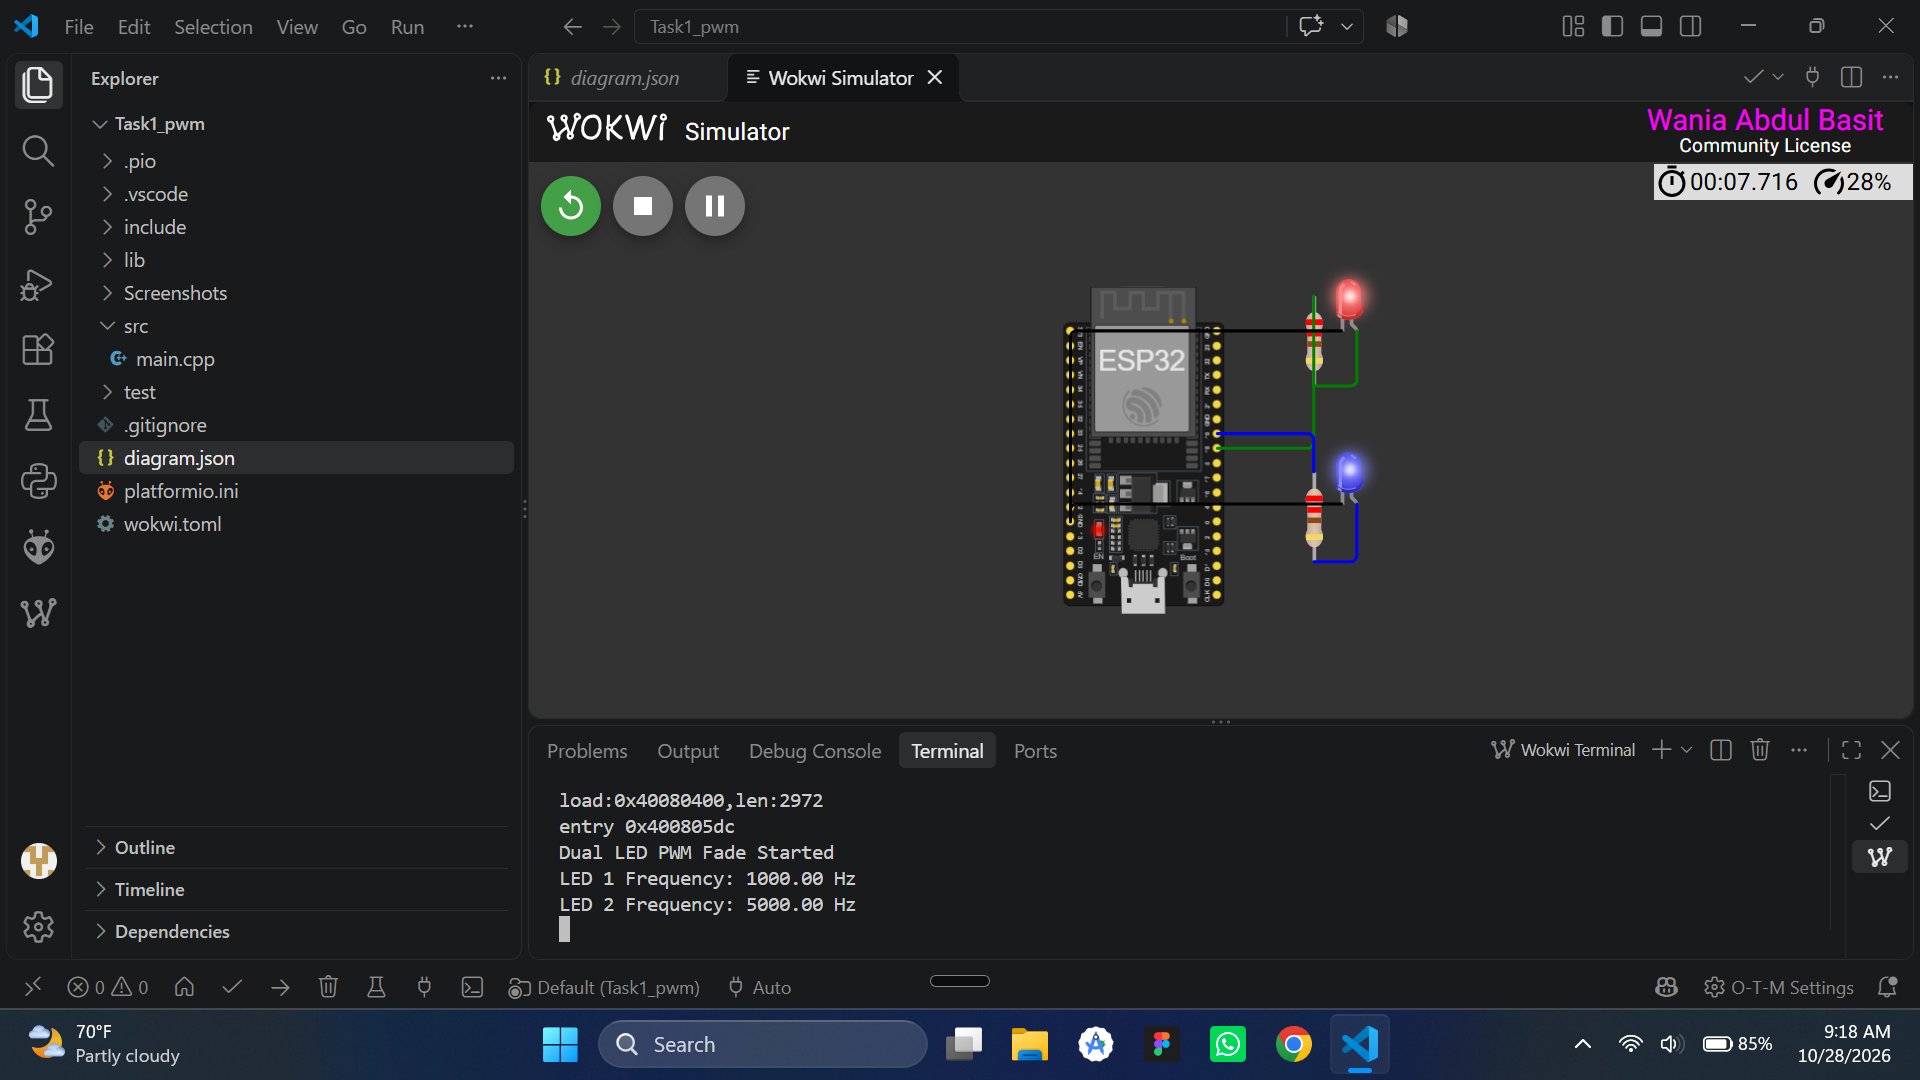
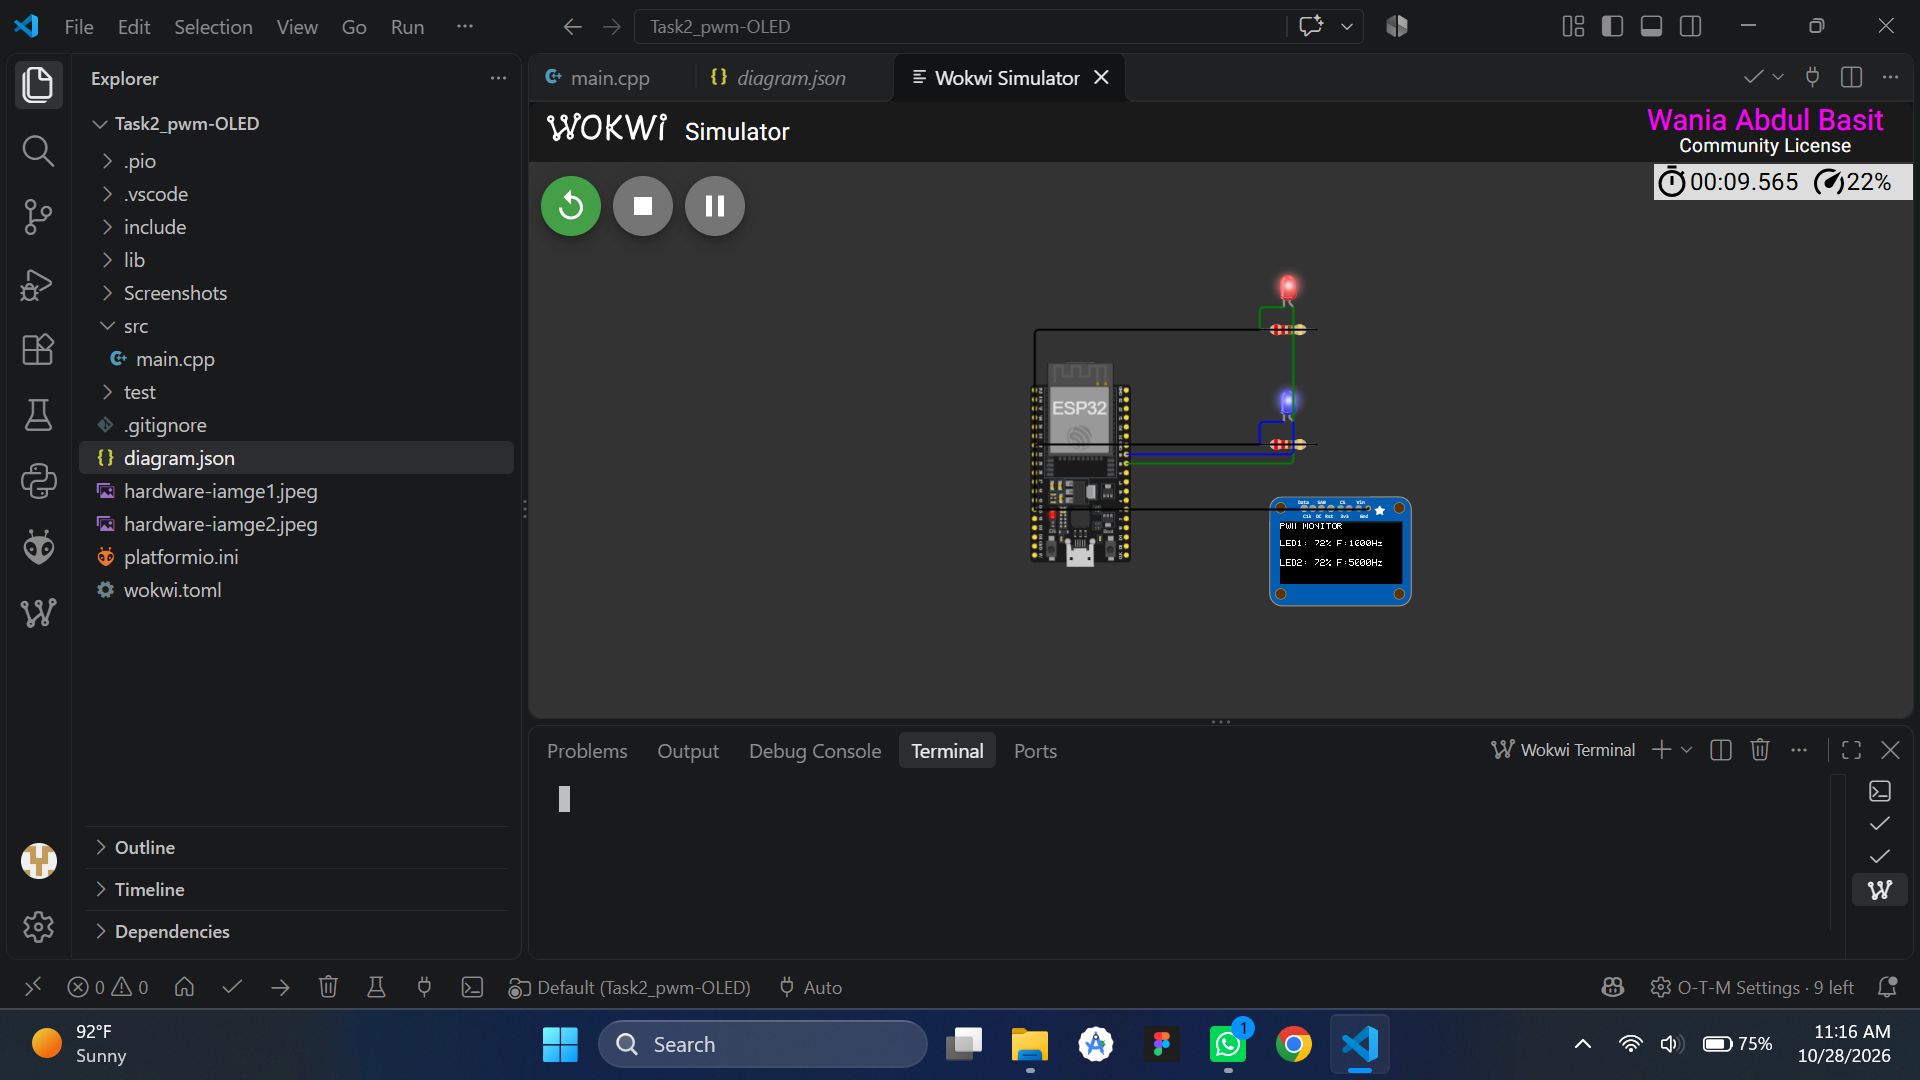
complete homework

diff --git a/Homework-2-PWM-1050/src/main.cpp b/Homework-2-PWM-1050/src/main.cpp
@@ -1,73 +1,106 @@
 //Wania Abdul Basit 24-NTU-CS-FL-1050
+
+
 #include <Arduino.h>
+#include <Wire.h>
+#include <Adafruit_GFX.h>
+#include <Adafruit_SSD1306.h>
 
-constexpr uint8_t LED1_PIN = 18;
-constexpr uint8_t LED2_PIN = 19;
+#define SCREEN_WIDTH 128
+#define SCREEN_HEIGHT 64
+#define OLED_RESET -1
+#define OLED_ADDRESS 0x3C
 
-constexpr uint8_t PWM_CHANNEL1 = 0;
-constexpr uint8_t PWM_CHANNEL2 = 2;
+Adafruit_SSD1306 display(
+    SCREEN_WIDTH, SCREEN_HEIGHT, &Wire, OLED_RESET
+);
 
-constexpr uint32_t PWM_FREQUENCY1 = 1000;
-constexpr uint32_t PWM_FREQUENCY2 = 5000;
+const int LED1_PIN = 18;
+const int LED2_PIN = 19;
 
-constexpr uint8_t PWM_RESOLUTION = 8;
-constexpr uint16_t PWM_MAX_DUTY = (1 << PWM_RESOLUTION) - 1;
+const int CHANNEL1 = 0;
+const int CHANNEL2 = 2;
 
-void setup()
-{
+const int FREQ1 = 1000;
+const int FREQ2 = 5000;
+const int RESOLUTION = 8;
+const int MAX_DUTY = 255;
+
+int duty1 = 0;
+int duty2 = 0;
+
+void showOLED() {
+    int percent1 = duty1 * 100 / MAX_DUTY;
+    int percent2 = duty2 * 100 / MAX_DUTY;
+
+    display.clearDisplay();
+    display.setTextColor(SSD1306_WHITE);
+    display.setTextSize(1);
+
+    display.setCursor(0, 0);
+    display.println("PWM MONITOR");
+
+    display.setCursor(0, 18);
+    display.print("LED1: ");
+    display.print(percent1);
+    display.print("% F:");
+    display.print(FREQ1);
+    display.println("Hz");
+
+    display.setCursor(0, 38);
+    display.print("LED2: ");
+    display.print(percent2);
+    display.print("% F:");
+    display.print(FREQ2);
+    display.println("Hz");
+
+    display.display();
+}
+
+void setup() {
     Serial.begin(115200);
 
-    double actualFreq1 = ledcSetup(
-        PWM_CHANNEL1, PWM_FREQUENCY1, PWM_RESOLUTION
-    );
+    Wire.begin(21, 22);
 
-    double actualFreq2 = ledcSetup(
-        PWM_CHANNEL2, PWM_FREQUENCY2, PWM_RESOLUTION
-    );
-
-    if (actualFreq1 == 0 || actualFreq2 == 0)
-    {
-        Serial.println("ERROR: PWM setup failed.");
-        while (true)
-        {
+    if (!display.begin(SSD1306_SWITCHCAPVCC, OLED_ADDRESS)) {
+        Serial.println("OLED initialization failed!");
+        while (true) {
             delay(1000);
         }
     }
 
-    ledcAttachPin(LED1_PIN, PWM_CHANNEL1);
-    ledcAttachPin(LED2_PIN, PWM_CHANNEL2);
+    ledcSetup(CHANNEL1, FREQ1, RESOLUTION);
+    ledcSetup(CHANNEL2, FREQ2, RESOLUTION);
 
-    ledcWrite(PWM_CHANNEL1, 0);
-    ledcWrite(PWM_CHANNEL2, 0);
+    ledcAttachPin(LED1_PIN, CHANNEL1);
+    ledcAttachPin(LED2_PIN, CHANNEL2);
 
-    Serial.println("Dual LED PWM Fade Started");
+    ledcWrite(CHANNEL1, 0);
+    ledcWrite(CHANNEL2, 0);
 
-    Serial.print("LED 1 Frequency: ");
-    Serial.print(actualFreq1);
-    Serial.println(" Hz");
+    Serial.println("Task 2: Dual LED PWM with OLED");
 
-    Serial.print("LED 2 Frequency: ");
-    Serial.print(actualFreq2);
-    Serial.println(" Hz");
+    showOLED();
 }
 
-void loop()
-{
-    // Fade in both LEDs
-    for (int duty = 0; duty <= PWM_MAX_DUTY; duty++)
-    {
-        ledcWrite(PWM_CHANNEL1, duty);
-        ledcWrite(PWM_CHANNEL2, duty);
+void loop() {
+    for (duty1 = 0; duty1 <= MAX_DUTY; duty1++) {
+        duty2 = duty1;
 
+        ledcWrite(CHANNEL1, duty1);
+        ledcWrite(CHANNEL2, duty2);
+
+        showOLED();
         delay(10);
     }
 
-    // Fade out both LEDs
-    for (int duty = PWM_MAX_DUTY; duty >= 0; duty--)
-    {
-        ledcWrite(PWM_CHANNEL1, duty);
-        ledcWrite(PWM_CHANNEL2, duty);
+    for (duty1 = MAX_DUTY; duty1 >= 0; duty1--) {
+        duty2 = duty1;
 
+        ledcWrite(CHANNEL1, duty1);
+        ledcWrite(CHANNEL2, duty2);
+
+        showOLED();
         delay(10);
     }
 }
